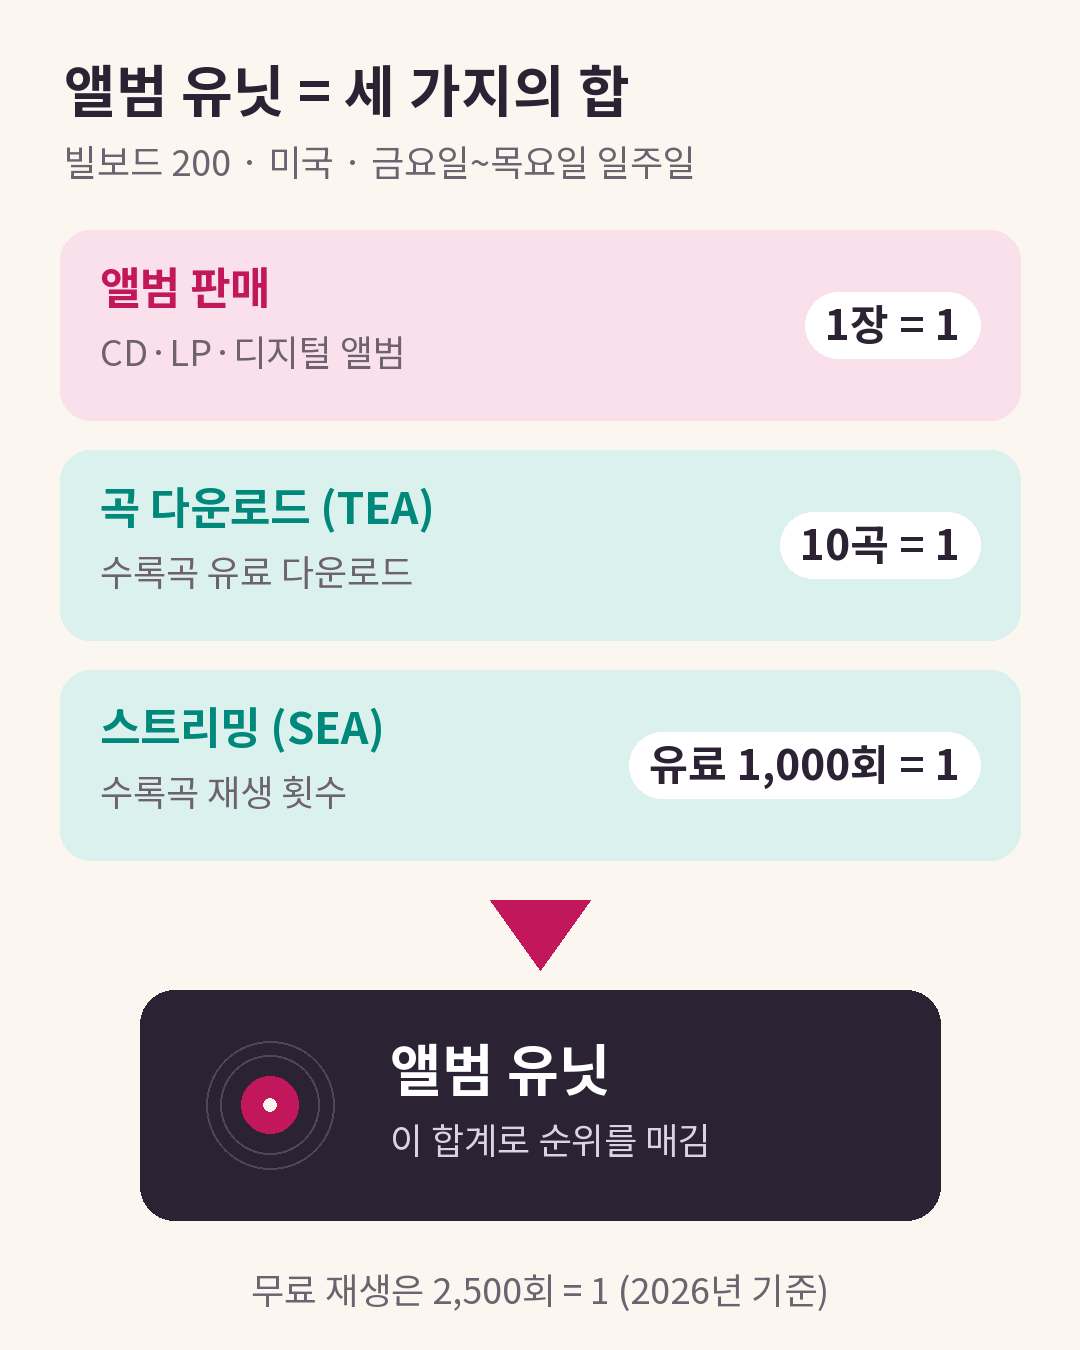
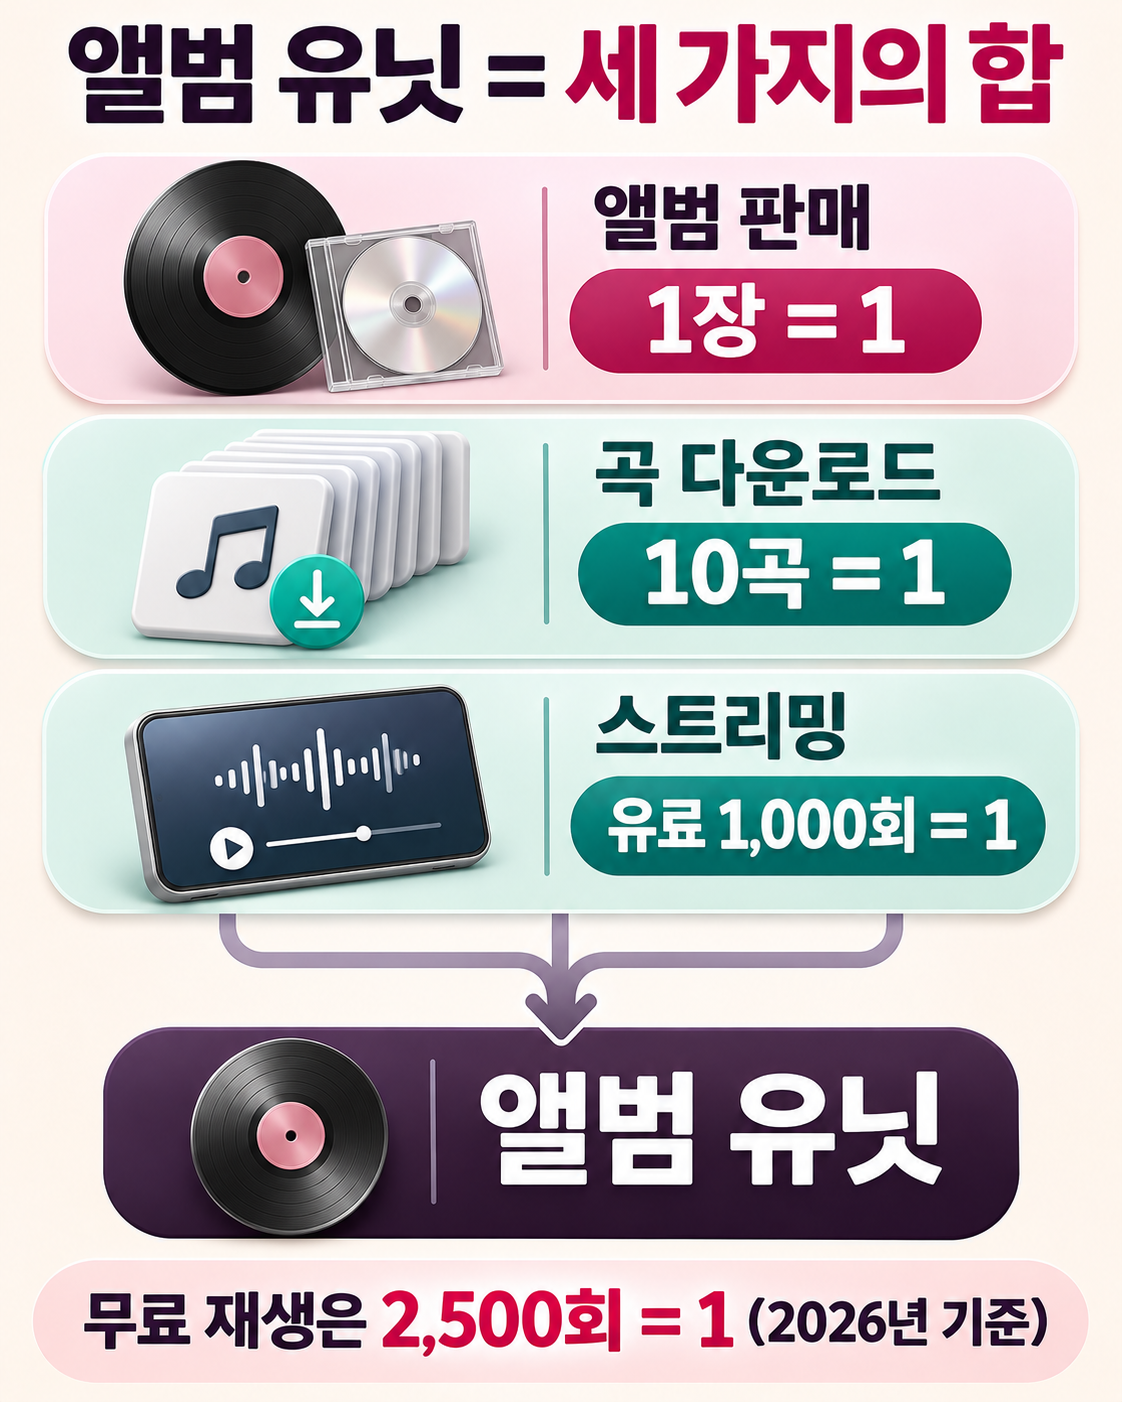
빌보드 글 02 앨범 유닛 그림을 ChatGPT 인포그래픽으로 요청

diff --git a/AGENTS.md b/AGENTS.md
@@ -237,6 +237,7 @@
   - 같은 날 사용자 요청으로 '빌보드 200은 무엇을 셀까?'를 보강(공백 포함 2,376자): 앨범 판매에 카세트·디지털 앨범, TEA·SEA는 그 앨범 수록곡만, h3 '어디서, 누가 셀까?'(미국만, 데이터 회사 루미네이트), h3 '금요일부터 목요일까지, 일주일'(첫 7일 = 한 주 순위, 진입·데뷔), h3 '차트 날짜는 왜 미래일까?'(일요일 예고·화요일 공개·다음 주 토요일 날짜). 새 그림 03 '집계부터 발표까지'(세로 길, 1·7·10·12·16일째)를 넣고 뒤 번호를 04·05로 다시 매김. 루미네이트·요일 흐름은 일반 지식(원문 미대조).
   - 이미지 5장: AI 02 앨범 유닛 세 가지·03 집계부터 발표까지·04 스트리밍 환산 기준(2025·2026·2027 막대)·05 같은 10만 유닛 다른 구성(가상 앨범 A·B) — 미색 바탕·가지색·자홍·청록, 레코드판 아이콘, 스크립트 scratchpad/zan/bb.py. ChatGPT 01 타이틀('빌보드 1위 / 어떻게 정할까?', 레코드판·CD·금색 막대그래프, 글자 정확, 가장 넓은 줄 약 81%, 크기만 맞춤, 원본 scratchpad/backup/billboard-01-original.png) 적용. 이미지 5장 완료, 대기 중인 요청 없음. 관련 글이 없어 배너 없음. 남은 일은 사용자의 네이버 발행뿐이다.
   - 같은 날 외부 검수 여덟 가지 반영(공백 포함 2,530자): 앨범 판매·TEA 정의를 '한 장을 사면 1장', '수록곡 유료 다운로드를 앨범 단위로 환산'으로, 집계 범위는 '미국 시장에서 판매되거나 스트리밍된 실적', 첫 주는 '금요일 발매면 첫 7일, 다른 요일이면 짧아질 수 있음', 2027 기준은 '1월 16일 자 차트(1월 1~7일 집계)부터 광고 기반 무료 1,500회', 유튜브는 '2027년부터 다시 제공한다고 발표'(검수가 YouTube 블로그 2026.11.9로 확인), 7,800만 회에 '2026년 기준', 근거 없는 케이팝·미국 팝 장르 비교 문장 삭제, 핫 100은 '라디오 방송 청취자 규모'. 그림 02(TEA '수록곡 유료 다운로드')·03(금요일 발매 기준)·05(2026년 기준) 문구도 맞춤. **장르·국가별 경향('케이팝은 ~가 많다')은 통계 근거 없이 쓰지 않는다. 해마다 바뀌는 환산 기준을 쓴 계산에는 기준 연도를 문장 안에 넣는다.**
+  - 같은 날 사용자 요청으로 02 앨범 유닛 세 가지를 ChatGPT 3D 인포그래픽으로 다시 요청(AI 버전 백업 scratchpad/backup/billboard-02-ai.png, 받기 전까지 images/의 AI 버전이 자리를 지킴).
 - 2026-11-23: `문서/네이버-코딩가이드/20261123_더체크-ONE체크-비교/index.html` 작성("카카오뱅크 더 체크 vs 케이뱅크 ONE 체크, 같은 소비로 비교", 카테고리 경제·투자, 처음 공백 포함 1,658자). 사용자가 '카카오 더 체크 프렌즈' 소재로 제안받은 4개 중 4번을 고름(그런 이름의 카드는 없고 더 체크카드·프렌즈 체크카드 두 종류라고 먼저 알림).
   - 근거: 2026.11.23 공식 페이지 원문 — 카카오뱅크 더 체크카드 혜택 상세(시즌 1, ~2027.6.30, 혜택팩 매일 변경, 5%는 GS25·저가 커피·다이소·올리브영 등, 최소 금액 없음, 통합 일 1천·월 2만 원), 케이뱅크 ONE 체크카드 상품 페이지와 혜택별 '자세히 보기' 팝업(시즌 6, 2026.9.1~12.31, 세 혜택 중 하나를 매달 선택, 모두 다 오프라인 0.6%·온라인 1.1%, 여기서 더 6개 영역 건당 1만 원 이상 5%·영역별 일 700원·월 2만 5천 원, 369 오프라인 1만 원 이상 3건마다 1천 원), 대중교통 이벤트 페이지. **케이뱅크 혜택 세부는 상품 페이지의 '자세히 보기' 팝업 안(shadowRoot)에 있어 get_page_text로는 안 나오고, 버튼을 누른 뒤 shadowRoot.textContent로 읽는다.**
   - 직접 계산(가정한 소비 세 가지): A 저가 커피·GS25 29만 원 카카오 1만 4,500원 vs 케이뱅크 1만 원(비교 기사와 같은 값), B 스타벅스·배달·CU·통신 40만 6천 원 2,030원 vs 1만 4,700원, C 학원비·온라인 80만 원 3,500원 vs 5,800원. 계산 근거는 발행 메모.

diff --git a/이미지요청.md b/이미지요청.md
@@ -18,4 +18,23 @@
   - **글자는 요청에 적힌 그대로**: 틀린 글자·빠진 글자·다른 글자가 없게 해 주세요.
 - 가운데가 너무 비지 않게 채워 주세요.
 
-(현재 요청 없음)
+## 네이버 「빌보드 200 1위는 어떻게 정할까? 앨범 판매와 스트리밍 환산」
+
+### 02-앨범-유닛-세-가지.png
+- 종류: 설명용 3D 인포그래픽(사진처럼 사실적인 소품 + 큰 글자)
+- 크기: 세로 4:5, 1080×1350
+- 독자는 성인 — 내용은 쉽게, 표현은 세련되게: 음악 잡지·핀테크 앱 안내 화면 같은 차분한 에디토리얼 느낌. 귀여운 캐릭터·손·말풍선·반짝이·장난감 같은 3D·굵은 테두리 만화 글씨는 쓰지 마세요.
+- 이 그림이 이해시키는 것: '앨범 유닛'은 세 가지(앨범 판매, 곡 다운로드, 스트리밍)를 앨범 단위로 바꿔 더한 값이라는 구조.
+- 배경: 따뜻한 미색(#FBF6EF) 바탕, 넉넉한 여백.
+- 구성(위에서 아래로):
+  1. 맨 위 제목 글자: 앨범 유닛 = 세 가지의 합
+  2. 그 아래 세 칸이 위에서 아래로 쌓여 있습니다. 칸마다 왼쪽에 3D 소품, 오른쪽에 글자.
+     - 첫째 칸(자홍색 #C2185B 계열): 소품은 무늬 없는 LP 레코드판과 빈 CD 케이스. 글자 두 줄 — '앨범 판매' / '1장 = 1'
+     - 둘째 칸(청록색 #00897B 계열): 소품은 아래 화살표가 있는 다운로드 아이콘이 붙은 작은 음표 카드 10장이 겹쳐 쌓인 모습. 글자 두 줄 — '곡 다운로드' / '10곡 = 1'
+     - 셋째 칸(청록색 계열): 소품은 화면에 재생 막대(음파 모양)만 보이는 스마트폰. 글자 두 줄 — '스트리밍' / '유료 1,000회 = 1'
+  3. 세 칸에서 내려오는 선이 아래 한 점으로 모이고, 그 아래 짙은 가지색(#2B2233) 큰 상자에 검은 레코드판 아이콘과 흰 글자 '앨범 유닛'.
+  4. 맨 아래 한 줄: 무료 재생은 2,500회 = 1 (2026년 기준)
+- 넣을 글자는 위에 적힌 것만, 적힌 그대로(틀린 글자·빠진 글자 없이). 다른 글자는 넣지 마세요.
+- 글자 크기: 제목은 크게, 가장 작은 글자도 휴대폰에서 읽히게 충분히 크게(1080px 폭 기준 36px 이상). 숫자 '1장 = 1', '10곡 = 1', '유료 1,000회 = 1'은 굵게 눈에 띄게.
+- 실제 회사 로고(빌보드, 음원 서비스, 휴대폰 제조사), 실제 앨범 표지, 사람 얼굴은 넣지 마세요. 휴대폰은 특정 회사 제품처럼 보이지 않는 단순한 모양으로.
+- 테두리(액자·프레임) 없음.
